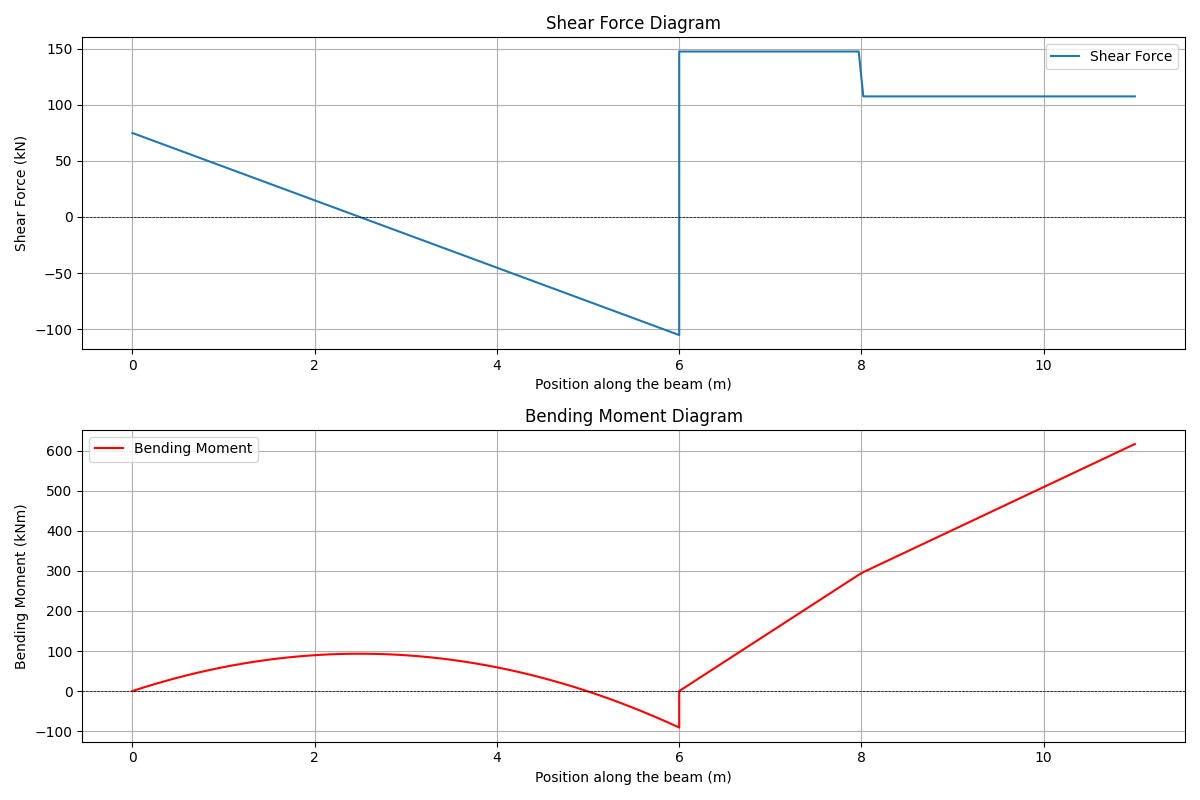
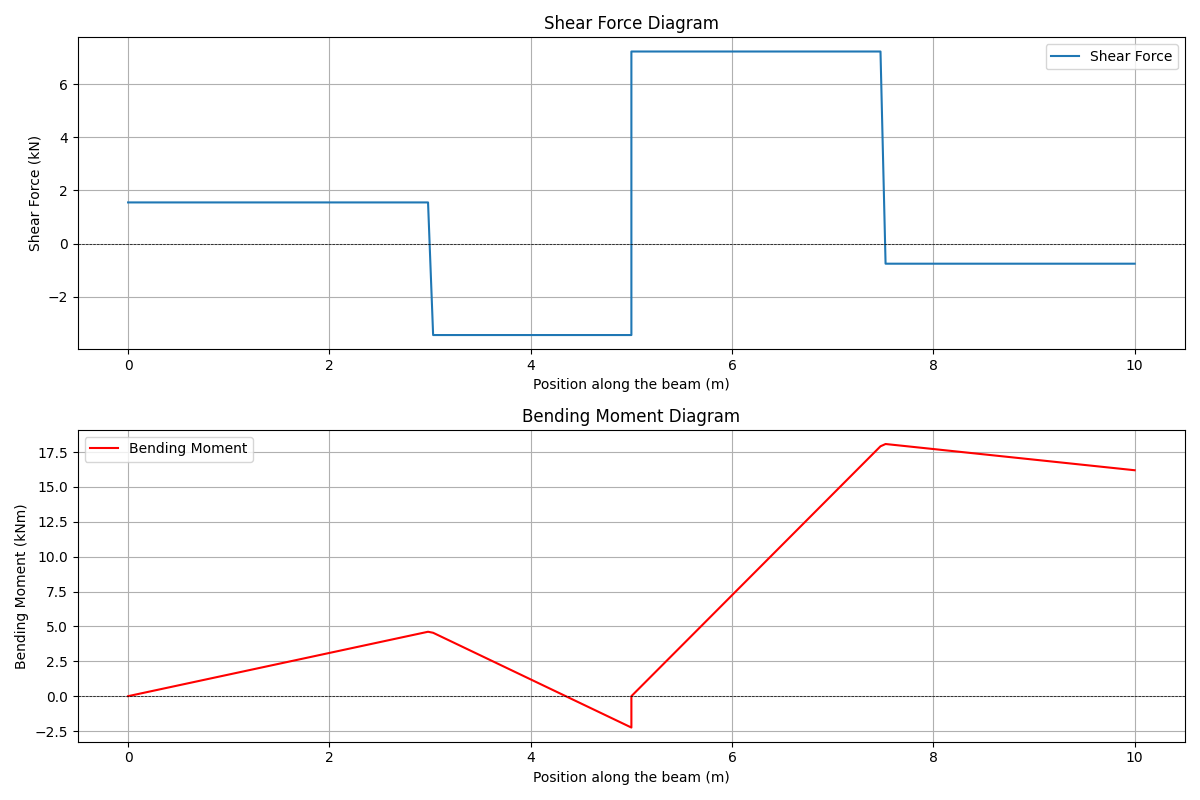
new changes

diff --git a/backend/testing.py b/backend/testing.py
@@ -229,6 +229,13 @@ class BeamAnalysis:
                     a = load["position"]
                     reaction_b += (m_ab + m_ba + p * a) / l
                     reaction_a += p - reaction_b
+                
+                elif load_type == "point_distance":
+                    p = load["magnitude"]
+                    a = load["a"]
+                    b = l - a
+                    reaction_b += (m_ab + m_ba + p * a) / l
+                    reaction_a += p - reaction_b
 
                 elif load_type == "vdl":
                     w1 = load["magnitude_start"]
@@ -252,18 +259,22 @@ class BeamAnalysis:
     def calculate_shear_and_bending(self):
         """Calculate shear force and bending moment distributions."""
         print("Calculating Shear Force and Bending Moment Distributions...")
+
         x_vals = []  # Positions along the beam
         shear_vals = []  # Shear force values
         moment_vals = []  # Bending moment values
 
+        carry_over_moment = 0  # Moment carried over to the next span
+
         for i, span in enumerate(self.spans):
+            # Calculate the span length
             l = self.supports[i + 1]["position"] - self.supports[i]["position"]
             reaction_a = self.reactions[i]
             reaction_b = self.reactions[i + 1]
 
             # Initialize shear force and bending moment at the left end
             sf = reaction_a
-            bm = 0
+            bm = carry_over_moment  # Start with the carried-over moment
             x = self.supports[i]["position"]
 
             # Add initial values at the left support
@@ -277,46 +288,84 @@ class BeamAnalysis:
 
                 if load_type == "udl":
                     # Uniformly Distributed Load (UDL) over the entire span
-                    w = load["magnitude"]
+                    w = load["magnitude"]  # Load magnitude (kN/m)
+                    num_points = 10  # Number of divisions for the curve
 
-                    # Key points: start, mid, and end of the UDL
-                    mid_position = x + l / 2
-                    sf_mid = sf - w * (l / 2)
-                    bm_mid = bm + sf * (l / 2) - (w * (l / 2)**2) / 2
+                    for j in range(num_points + 1):
+                        x_pos = x + (j / num_points) * l
+                        x_vals.append(x_pos)
 
-                    # End of UDL
-                    sf_end = sf - w * l
-                    bm_end = 0  # At simple supports, bending moment is zero
+                        # Shear force: S(x) = Reaction_A - w * x
+                        sf = reaction_a - w * (x_pos - x)
+                        shear_vals.append(sf)
 
-                    # Append mid-point data
-                    x_vals.append(mid_position)
-                    shear_vals.append(sf_mid)
-                    moment_vals.append(bm_mid)
+                        # Bending moment: M(x) = Carry-over moment + Reaction_A * x - (w * x²) / 2
+                        bm = carry_over_moment + reaction_a * (x_pos - x) - (w * (x_pos - x)**2) / 2
+                        moment_vals.append(bm)
 
-                    # Append end-point data
+                    # Update x to the end of the span after the UDL
                     x += l
-                    x_vals.append(x)
-                    shear_vals.append(sf_end)
-                    moment_vals.append(bm_end)
 
                 elif load_type == "point_center":
-                    # Point Load at Center
-                    p = load["magnitude"]
-                    a = l / 2
+                    # Point Load at the center
+                    p = load["magnitude"]  # Point load magnitude (kN)
+                    a = l / 2  # Distance from the left support to the point load
                     load_position = x + a
 
-                    # Bending moment at the point load position
-                    bm += sf * a
-                    # Update shear force after the point load
-                    sf -= p
+                    # Calculate bending moment for the left side of the point load (before the load)
+                    num_points = 5  # Divide the span for smoother curves
+                    for j in range(num_points + 1):
+                        pos = x + (j / num_points) * a
+                        bm = carry_over_moment + reaction_a * (pos - x)  # Moment = Reaction_A * distance
+                        x_vals.append(pos)
+                        shear_vals.append(sf)
+                        moment_vals.append(bm)
 
-                    # Append point load data
+                    # Add bending moment at the load position
+                    bm = carry_over_moment + reaction_a * a
                     x_vals.append(load_position)
                     shear_vals.append(sf)
                     moment_vals.append(bm)
 
-            # Add final values at the right support
-            bm = 0  # Bending moment at simple supports is zero
+                    # Update shear force after the point load (subtract the point load)
+                    sf -= p
+
+                    # Bending moment after the point load (right side of the load)
+                    for j in range(num_points + 1):
+                        pos = load_position + (j / num_points) * a
+                        bm = carry_over_moment + reaction_b * (x + l - pos)  # Moment = Reaction_B * distance
+                        x_vals.append(pos)
+                        shear_vals.append(sf)
+                        moment_vals.append(bm)
+
+                elif load_type == "point_load":
+                    # General Point Load at any position
+                    p = load["magnitude"]  # Point load magnitude (kN)
+                    load_position = load["position"]  # Position of the load along the span
+
+                    # Before the point load, calculate the shear and bending moment
+                    for j in range(5):
+                        x_pos = x + (j / 5) * (load_position - x)
+                        sf = reaction_a - p * (x_pos - x) / (load_position - x)
+                        bm = carry_over_moment + reaction_a * (x_pos - x) - (p * (x_pos - x)**2) / 2
+                        x_vals.append(x_pos)
+                        shear_vals.append(sf)
+                        moment_vals.append(bm)
+
+                    # After the point load, calculate the shear and bending moment
+                    sf -= p  # Shear force decreases by the magnitude of the point load
+                    for j in range(5):
+                        x_pos = load_position + (j / 5) * (x + l - load_position)
+                        bm = carry_over_moment + reaction_b * (x + l - x_pos) - (p * (x_pos - load_position)**2) / 2
+                        x_vals.append(x_pos)
+                        shear_vals.append(sf)
+                        moment_vals.append(bm)
+
+            # Final bending moment at the right support of the current span
+            carry_over_moment = moment_vals[-1]  # Update carry-over moment to the last calculated value
+
+            # Explicitly add the moment at the right support
+            bm = carry_over_moment
             x_vals.append(self.supports[i + 1]["position"])
             shear_vals.append(sf)
             moment_vals.append(bm)
@@ -324,10 +373,11 @@ class BeamAnalysis:
         # Print key points
         print("\nKey Points (Shear Force and Bending Moment):")
         for x, sf, bm in zip(x_vals, shear_vals, moment_vals):
-            print(f"Position: {x:.2f} m, Shear Force: {sf:.2f} kN, Bending Moment: {bm:.2f} kNm")
+            print(f"Position: {x:.2f} m, Shear Force: {sf:.5f} kN, Bending Moment: {bm:.5f} kNm")
 
         print("Shear Force and Bending Moment Distributions calculated successfully.")
         return x_vals, shear_vals, moment_vals
+
 
     
     def plot_diagrams(self, x_vals, shear_vals, moment_vals, save_path):

diff --git a/backend/app.py b/backend/app.py
@@ -16,11 +16,15 @@ def clear_old_images():
         file_path = os.path.join(IMAGE_DIR, file)
         if os.path.isfile(file_path):
             os.remove(file_path)
+# @app.route('/home')
+# def index():
+#     """Render the index page."""
+#     return render_template('home.html') 
 
 @app.route('/')
 def index():
     """Render the index page."""
-    return render_template('index.html')
+    return render_template('home.html')
 
 @app.route('/analyze', methods=['POST'])
 def analyze():
